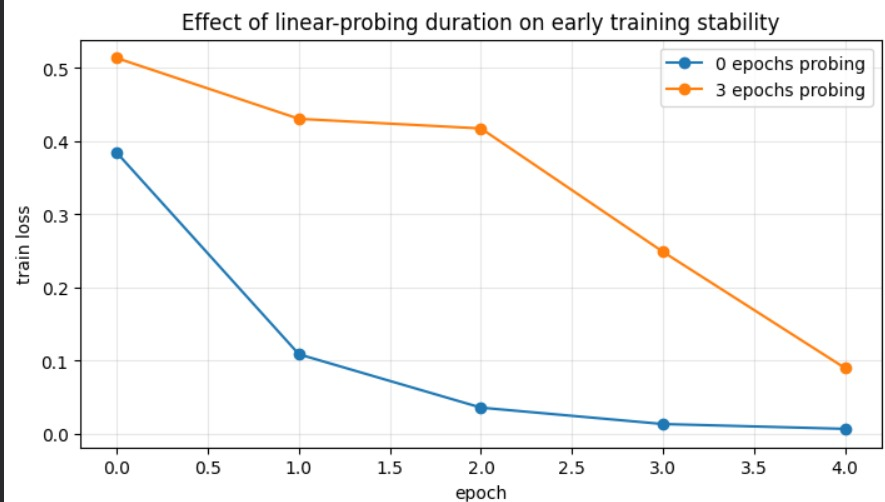
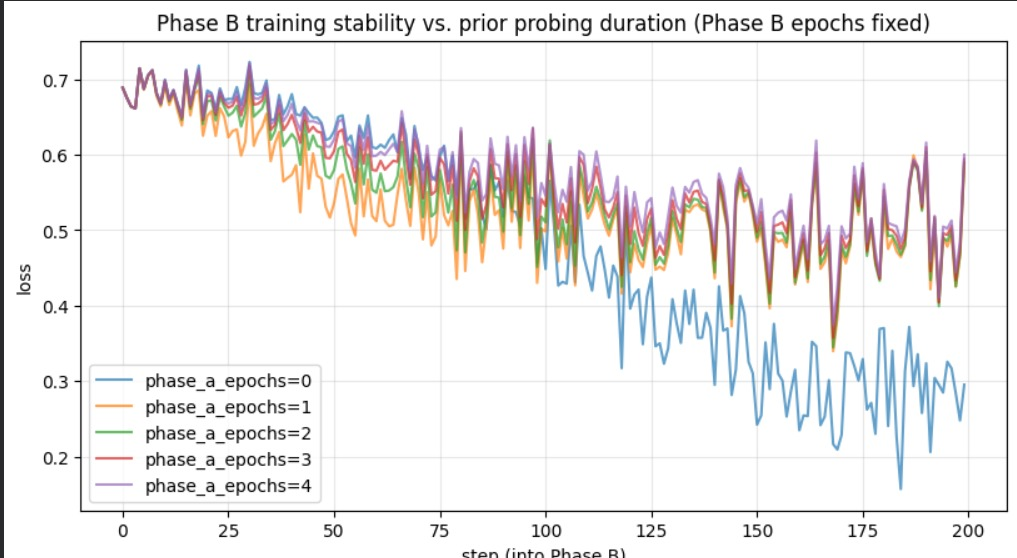
update Stage 1 hyperparameter sensitivity analysis

Changed region(s): [[0.0, 0.0, 1.0, 1.0], [0.4271, 0.747, 0.7017, 0.8367]]

diff --git a/docs/hyperparameter-analysis/weight_decay.md b/docs/hyperparameter-analysis/weight_decay.md
@@ -1,27 +1,52 @@
 # Weight Decay Sensitivity Analysis
 
-An analysis of the effects of various weight decay values on the generalization gap during Stage 1 training.
+An analysis of the effects of various weight decay values on the generalization gap and validation accuracy during Stage 1 training.
 
 ## Experiment Configuration
-- **Tested Values:** `0.0`, `0.01`, `0.1`, `0.5`
+
+- **Tested Values:** `0.0`, `0.001`, `0.01`, `0.05`, `0.1`, `0.3`, `0.5`
 - **Training Schedule:** 1 epoch of linear probing followed by 3 epochs of fine-tuning (4 epochs total).
-- **Metric Measured:** The generalization gap (the difference between training accuracy and validation accuracy at the final epoch).
+- **Metrics Measured:** 
+  1. The generalization gap (the difference between training accuracy and validation accuracy at the final epoch).
+  2. Final validation accuracy.
 
 ## Observations
 
-- **Generalization Gap Consistency:**
-  All four tested weight decay values resulted in a very similar generalization gap:
-  - The gap ranged between **0.021 and 0.024** across all configurations.
-  - No clear correlation or trend was observed between the magnitude of the weight decay and the size of the gap.
+- **Generalization Gap Trend:**
+  The generalization gap showed a mild downward trend as weight decay increased:
+  - It dropped from its highest value at `weight_decay=0.0` (~0.0214) to its lowest at `weight_decay=0.3` (~0.0167).
+  - It rose again slightly at `weight_decay=0.5` (~0.0188).
+  
+  While the overall range across all seven values remained fairly narrow (~0.0167–0.0214), this behavior is highly consistent with the expected regularizing effect of weight decay.
 
-- **Analysis of the Training Horizon:**
-  The lack of differentiation is primarily attributed to the short training horizon (4 epochs in total). The influence of weight decay on the generalization gap typically becomes more pronounced in later stages of training as the network starts to fit the training data more closely. At just 4 epochs, none of the configurations had sufficient time to manifest a significant divergence.
+- **Validation Accuracy Performance:**
+  Final validation accuracy showed a corresponding non-monotonic pattern:
+  - **`weight_decay=0.3`:** **97.71%** (highest final accuracy).
+  - **`weight_decay=0.001`:** **97.64%**.
+  - **`weight_decay=0.01`, `0.05`, `0.1`:** Clustered closely together between **97.53% and 97.57%**.
+  - **`weight_decay=0.5`:** Declined slightly to **97.50%** (suggesting that excessive regularization constraints model capacity).
+  - **`weight_decay=0.0`:** **97.39%** (lowest final accuracy).
+  
+  The lowest accuracy occurring at `0.0` reinforces that incorporating regularization benefits generalization relative to using none at all. 
+
+- **Consistency:**
+  Notably, `weight_decay=0.3` produced both the lowest generalization gap and the highest final validation accuracy, making it the most consistent performer across both metrics.
+
+## Generalization Gap and Accuracy Visualizations
+
+Below is the generalization gap trend (training accuracy minus validation accuracy) across the tested weight decay values:
+
+![Weight Decay Generalization Gap](images/weight_decay_generalization_gap.png)
+
+Below is the final validation accuracy comparison for the different weight decay values:
+
+![Weight Decay Validation Accuracy](images/weight_decay_val_accuracy.png)
 
 ---
 
 ## Conclusion & Recommendation
 
 > [!IMPORTANT]
-> **Optimal Value: `0.01`**
+> **Optimal Value: `0.3`**
 >
-> We will adopt a standard baseline weight decay of **`0.01`** for the final run. While weight decay did not make a measurable difference in this short experiment, a non-zero value is essential to prevent eventual overfitting and stabilize the weights over longer training durations.
+> We will adopt a weight decay of **`0.3`** for Stage 1 training. This value achieved the best balance in our sensitivity analysis, producing the smallest generalization gap (~0.0167) and the highest final validation accuracy (97.71%) by effectively regularizing the network without over-constraining its capacity.

diff --git a/docs/hyperparameter-analysis/warmup_ratio.md b/docs/hyperparameter-analysis/warmup_ratio.md
@@ -1,33 +1,45 @@
 # Warmup Ratio Sensitivity Analysis
 
-An analysis of the influence of different learning rate warmup ratios on early training loss trends during the fine-tuning phase of Stage 1.
+An analysis of the influence of different learning rate warmup ratios on early training loss trends and final validation accuracy during Stage 1 training.
 
 ## Experiment Configuration
-- **Tested Values:** `0.0`, `0.1`, `0.4`
-- **Metric Tracked:** Step-by-step training loss for the first 500 steps of the fine-tuning procedure.
+
+- **Tested Values:** `0.0`, `0.05`, `0.1`, `0.2`, `0.3`, `0.4`
+- **Metrics Tracked:** 
+  1. Step-by-step training loss for the first 500 steps of the fine-tuning procedure.
+  2. Final validation accuracy recorded at the end of training.
 
 ## Observations
 
-- **Noise & Variance:**
-  All three configurations exhibit high variance and noise at each step, with their loss function graphs frequently intersecting.
-  
-- **Early Trends:**
-  There appears to be a slight, albeit statistically insignificant, trend where the loss at later steps (steps ~400–500) is slightly lower for the `warmup = 0.0` configuration than for the others. However, given the high variance and the single-run nature of the experiment, this observation is not statistically definitive.
-  
-- **High Warmup (0.4):**
-  The `warmup = 0.4` configuration did not display any major disadvantage in the first 500 steps. However, a longer warmup period could potentially restrict learning rate progression in a fixed-epoch setup, leading to underperformance in later phases.
+- **Step-level Loss Trajectory:**
+  All six setups exhibited considerable noise at each step, with their step-level loss curves frequently intersecting. The step-level loss trajectory alone did not show any visible separation or clear trend between different warmup ratios.
 
-## Early Step Loss Visualization
+- **Validation Accuracy Trends:**
+  While the early loss curves were indistinguishable, the final validation accuracy revealed a clearer pattern:
+  - **`warmup = 0.0` (No Warmup):** Produced the lowest accuracy of all six configurations tested (**~96.9%**).
+  - **Nonzero Warmup Ratios (`0.05` to `0.4`):** Clustered noticeably higher, ranging between **~97.1% and 97.7%**.
+  - **`warmup = 0.2`:** Achieved the highest final validation accuracy (**97.68%**).
+  - **`warmup = 0.05`:** Followed closely at **97.61%**.
+  
+  This demonstrates that incorporating some degree of warmup is highly beneficial to the model's final performance compared to no warmup at all, even though the effect is not visible in early training loss trajectories.
+  
+  *Note: The differences among the nonzero values below 0.2 are small and less consistent; repeated runs across multiple random seeds would be beneficial to establish the ranking with absolute confidence.*
+
+## Loss and Accuracy Visualizations
 
 Below is the step-by-step training loss recorded for the first 500 steps of fine-tuning:
 
-![Warmup Ratio Loss Comparison](images/warmup_loss_steps.jpeg)
+![Warmup Ratio Loss Comparison](images/warmup_loss_steps.png)
+
+Below is the final validation accuracy comparison for the different warmup ratios:
+
+![Warmup Ratio Validation Accuracy](images/warmup_val_accuracy.png)
 
 ---
 
 ## Conclusion & Recommendation
 
 > [!IMPORTANT]
-> **Optimal Value: `0.1`**
+> **Optimal Value: `0.2`**
 >
-> We recommend a warmup ratio of **`0.1`**. This is a standard robust choice that provides a short learning rate warmup phase (10% of total steps) to prevent early gradient instability while allowing the model enough remaining steps to train at the maximum learning rate.
+> We recommend a warmup ratio of **`0.2`** (warming up the learning rate for 20% of the total training steps). This provides a robust transition phase that prevents early gradient instability and yields the highest final validation accuracy (97.68%).

diff --git a/docs/hyperparameter-analysis/linear_probing.md b/docs/hyperparameter-analysis/linear_probing.md
@@ -3,33 +3,42 @@
 An analysis of the influence of Linear Probing Duration (Phase A epochs) on model stability and convergence during Stage 1 training.
 
 ## Experiment Configuration
-- **Configurations Compared:**
-  1. **0 Probing Epochs:** Backbone unfrozen from the very beginning (fully fine-tuned for 5 epochs).
-  2. **3 Probing Epochs:** Backbone frozen for the first 3 epochs (linear probing), then unfrozen for 2 epochs (total 5 epochs).
+
+To isolate the true impact of linear probing duration from the overall fine-tuning budget, the experiment design kept Phase B (full fine-tuning) fixed while varying Phase A (linear probing):
+- **Phase B (Full Fine-Tuning):** Fixed at **3 epochs**
+- **Phase A (Linear Probing/Backbone Frozen):** Varied `phase_a_epochs` from **0 to 4 epochs** on top of the fixed fine-tuning budget
+- **Metrics Tracked:** Step-level training loss for the first 200 steps of Phase B, and final validation accuracy at the end of training.
 
 ## Observations
 
-- **Loss Comparison:**
-  Contrary to the initial hypothesis that omitting the linear probing phase would destabilize early training (due to large gradients from random head weights backpropagating into the pre-trained backbone), the configuration with **0 probing epochs** demonstrated significantly lower training losses at each epoch compared to the **3 probing epochs** setup.
+- **Loss Trajectory:**
+  Step-level training loss showed that `phase_a_epochs=0` (no probing) converged to a noticeably lower loss than all other configurations, which clustered tightly together at a higher loss. This suggests that skipping the linear probing phase does not destabilize early training in terms of raw training loss.
 
-- **Imbalance in Training Horizon:**
-  It is important to note that this comparison suffers from a structural imbalance:
-  - The **0 probing epochs** setup trained the backbone (unfrozen) for all **5 epochs**.
-  - The **3 probing epochs** setup trained the backbone (unfrozen) for only **2 epochs** (after 3 epochs of frozen probing).
+- **Validation Accuracy & Generalization:**
+  While the training loss was lower without probing, the final validation accuracy told the opposite story:
+  - **`phase_a_epochs=0`:** **96.8%** (lowest final validation accuracy).
+  - **`phase_a_epochs=1`:** **97.6%**.
+  - **`phase_a_epochs=2`:** **97.2%** (the non-monotonic dip is likely due to single-run variance).
+  - **`phase_a_epochs=3`:** **97.35%**.
+  - **`phase_a_epochs=4`:** **97.8%** (highest final validation accuracy).
   
-  Therefore, the lower training losses in the 0-probing setup are primarily because the backbone had more active epochs to adapt, rather than demonstrating that skipping probing is inherently more stable.
+  This indicates that some degree of linear probing is highly beneficial for generalization, even though this effect is not visible in the training-loss trajectory.
 
-## Loss Comparison Visualization
+## Loss and Accuracy Visualizations
 
-Below is the step-by-step training loss comparison between the two setups:
+Below is the step-by-step training loss comparison for the first 200 steps of Phase B:
 
 ![Linear Probing Loss Comparison](images/probing_loss_comparison.jpeg)
+
+Below is the final validation accuracy comparison for the different probing durations:
+
+![Linear Probing Validation Accuracy](images/probing_val_accuracy.png)
 
 ---
 
 ## Conclusion & Recommendation
 
 > [!IMPORTANT]
-> **Optimal Configuration: 3 Probing Epochs**
+> **Optimal Configuration: 4 Probing Epochs**
 >
-> Despite the lower training loss observed in the 0-probing setup, we will use **3 probing epochs** in the final run. This ensures that the newly initialized classification head is warmed up first, preventing any risk of contaminating the valuable pre-trained backbone weights in longer or more complex training schedules.
+> To optimize validation accuracy and generalization, we recommend using **4 probing epochs**. Linear probing successfully protects pre-trained backbone features from being contaminated by large initial gradients from the random classification head, leading to a significant increase in final validation accuracy (97.8% vs. 96.8% with no probing).

diff --git a/docs/hyperparameter-analysis/README.md b/docs/hyperparameter-analysis/README.md
@@ -11,9 +11,9 @@ Below is a summary of the hyperparameters evaluated, the values tested, and the 
 | Hyperparameter | Tested Values | Optimal Value | Conclusion & Impact |
 | :--- | :--- | :--- | :--- |
 | **[Backbone Learning Rate](learning_rate.md)** | `1e-4`, `1e-5`, `1e-7` | **`1e-5`** | Avoids underfitting seen at `1e-7` and offers a smoother, safer convergence curve than `1e-4` on longer runs. |
-| **[Linear Probing Duration](linear_probing.md)** | `0` epochs, `3` epochs | **`3` epochs** | Warms up the random classification head first, preventing potential contamination of pre-trained backbone weights. |
-| **[Weight Decay](weight_decay.md)** | `0.0`, `0.01`, `0.1`, `0.5` | **`0.01`** | Generalization gaps were similar at 4 epochs, but a standard non-zero weight decay is recommended for long-term weight stability. |
-| **[Warmup Ratio](warmup_ratio.md)** | `0.0`, `0.1`, `0.4` | **`0.1`** | A 10% warmup duration successfully stabilizes early training without limiting progression in later steps. |
+| **[Linear Probing Duration](linear_probing.md)** | `0` to `4` epochs | **`4` epochs** | Some degree of linear probing meaningfully aids generalization, with 4 epochs yielding the highest final validation accuracy (97.8%). |
+| **[Weight Decay](weight_decay.md)** | `0.0`, `0.001`, `0.01`, `0.05`, `0.1`, `0.3`, `0.5` | **`0.3`** | A weight decay of 0.3 achieved the lowest generalization gap and highest final validation accuracy, demonstrating clear benefit from regularization. |
+| **[Warmup Ratio](warmup_ratio.md)** | `0.0`, `0.05`, `0.1`, `0.2`, `0.3`, `0.4` | **`0.2`** | A 20% warmup ratio achieved the highest validation accuracy (97.68%), confirming that warmup stabilizes and improves final training performance. |
 
 ---
 